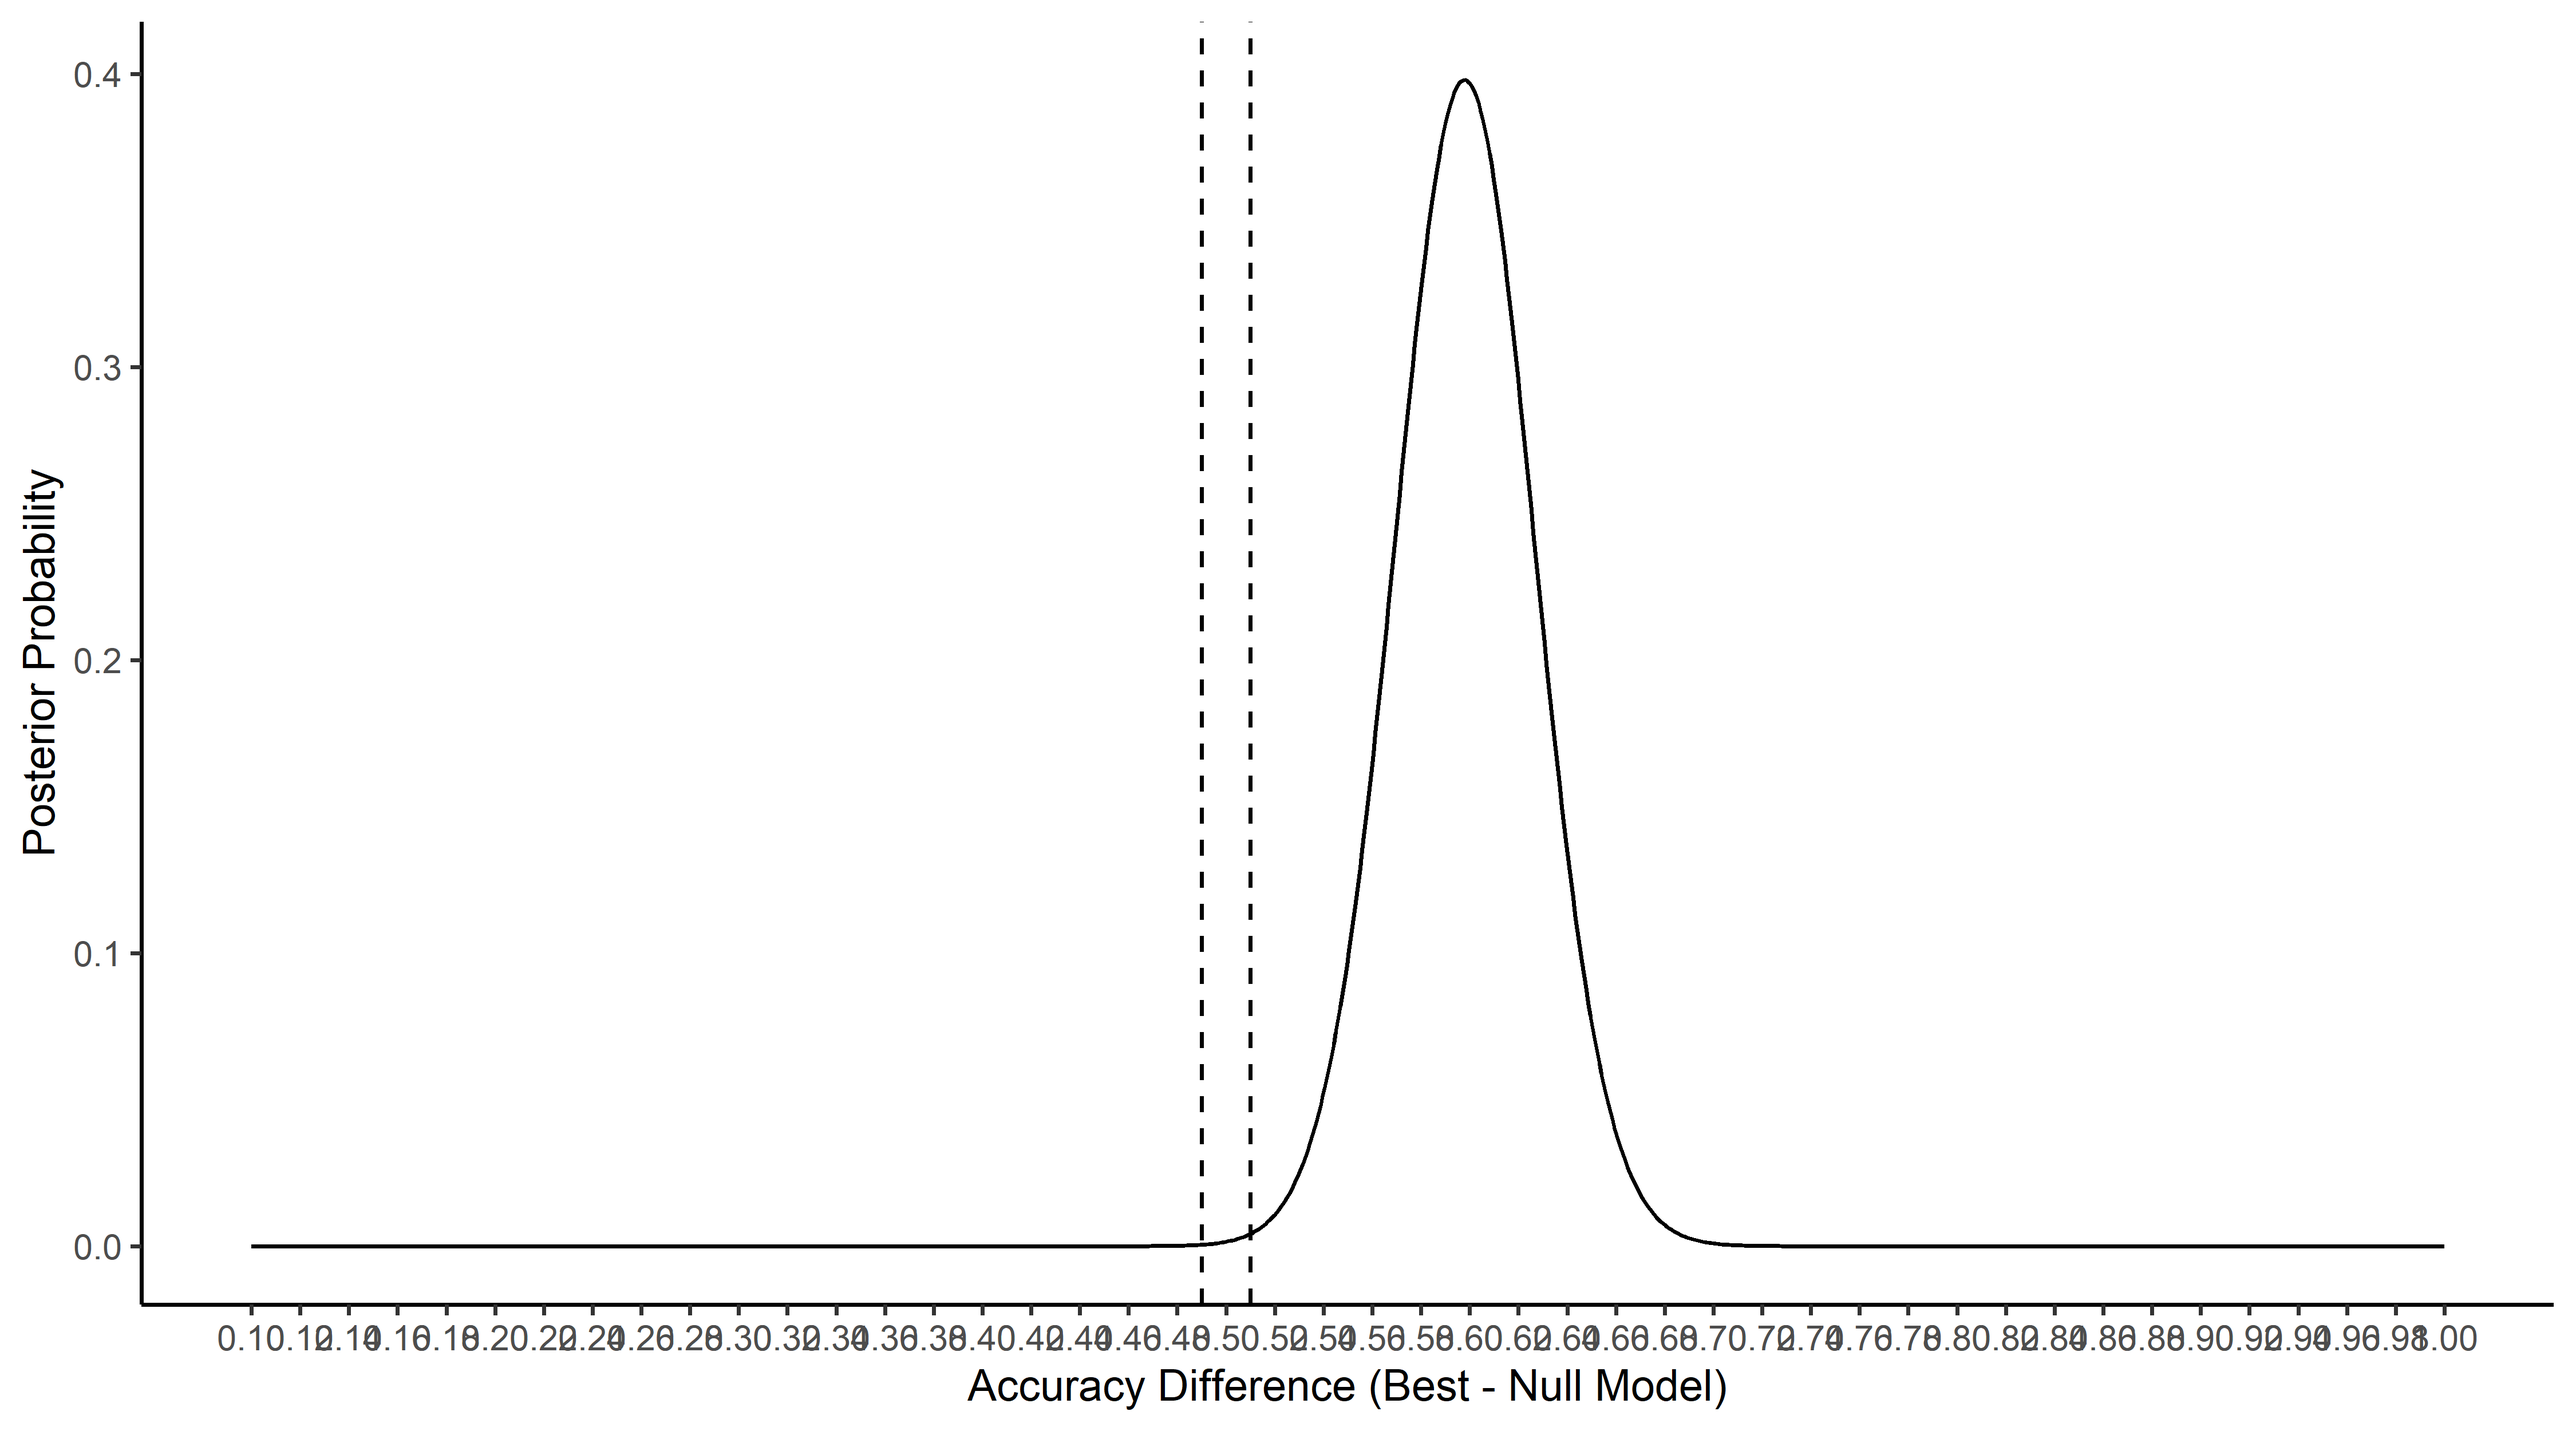
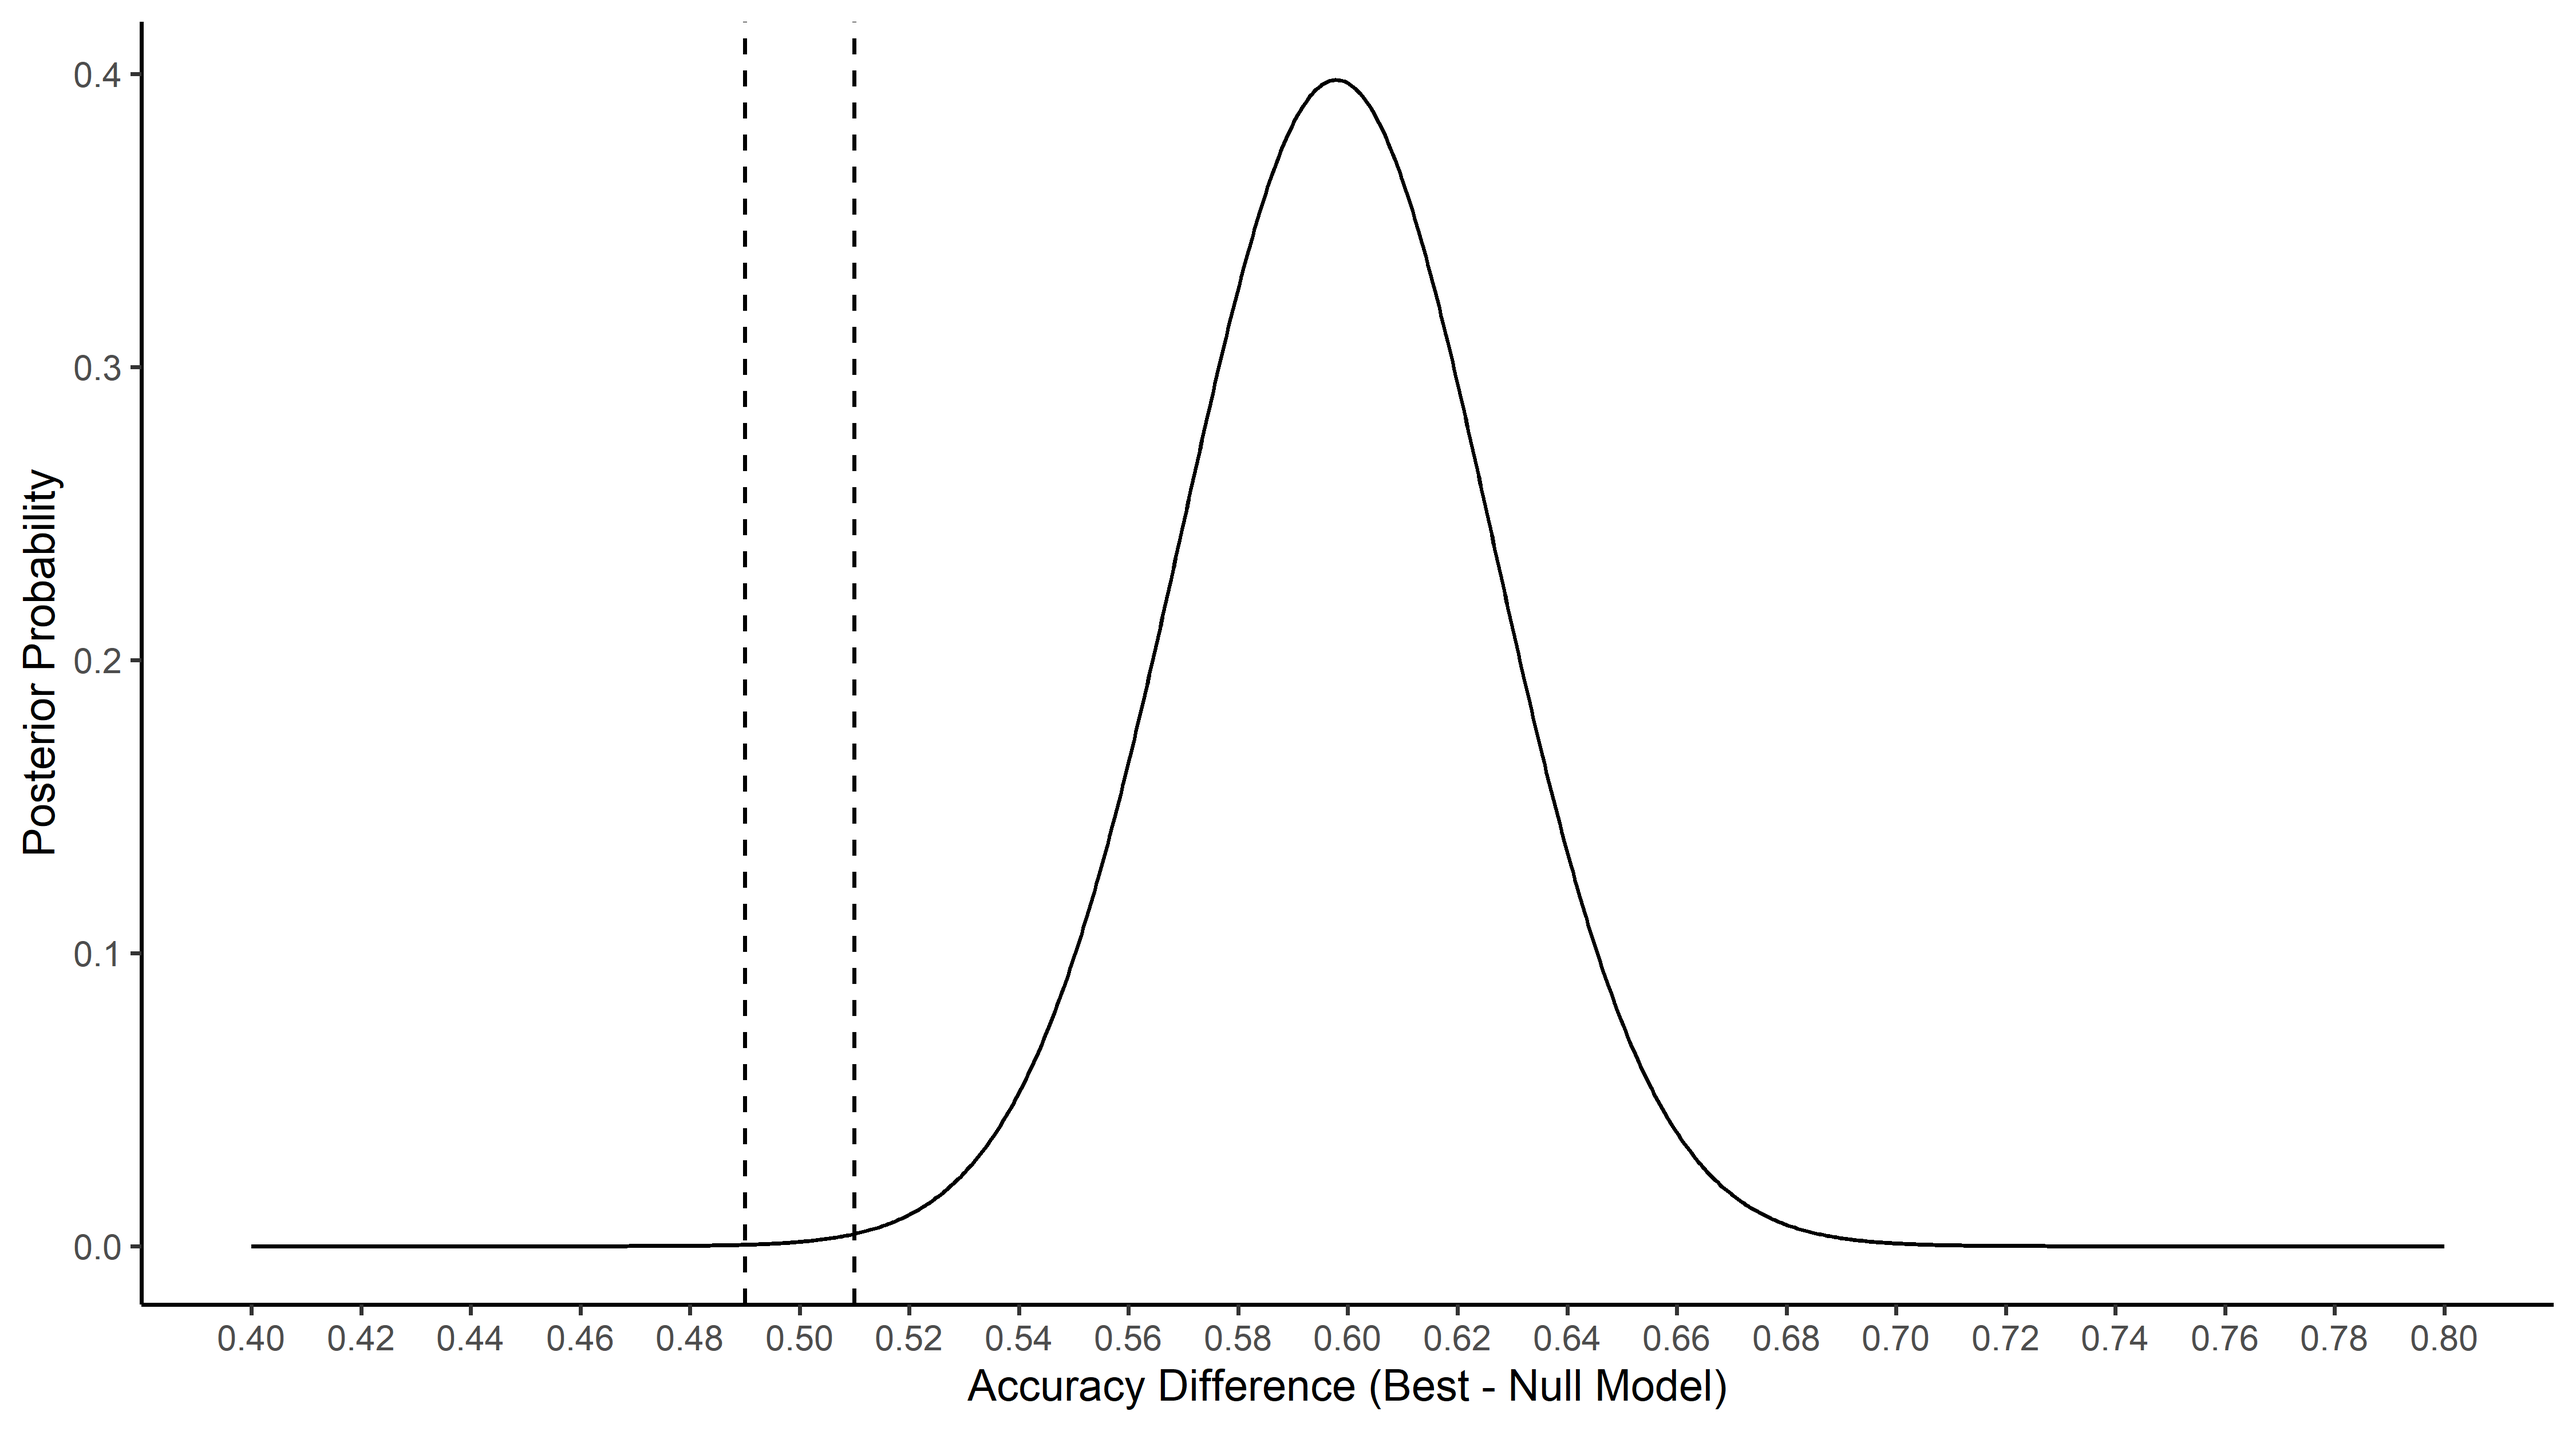
updates posterior probability figure

diff --git a/meta/ana_scripts/ana_model_performance.html b/meta/ana_scripts/ana_model_performance.html
@@ -6285,8 +6285,8 @@ best_fits &lt;- results_best$bal_accuracy
 
 rope_min &lt;- .49
 rope_max &lt;- .51
-plot_min = .1
-plot_max = 1.0 # may need to get bigger
+plot_min = .4
+plot_max = .8 # may need to get bigger
 
 # fix pass in bal_accuracy estimates instead of model fits
 results_ttest &lt;- bayesian_correlated_t_test(best_fits, 
@@ -6304,7 +6304,7 @@ best_posterior &lt;- ggplot(mapping = aes(x = results_ttest$plot_diffs, y = resu
        y = &quot;Posterior Probability&quot;)
 
 best_posterior</code></pre>
[2 lines of base64/hex data omitted]
 <pre class="r"><code># save figure
 ggsave(&quot;best_posterior.png&quot;, plot = best_posterior,  path_figures, width = 9, height = 5, units = &quot;in&quot;, device = &quot;png&quot;,  dpi = 500)</code></pre>
 <p>get values</p>
